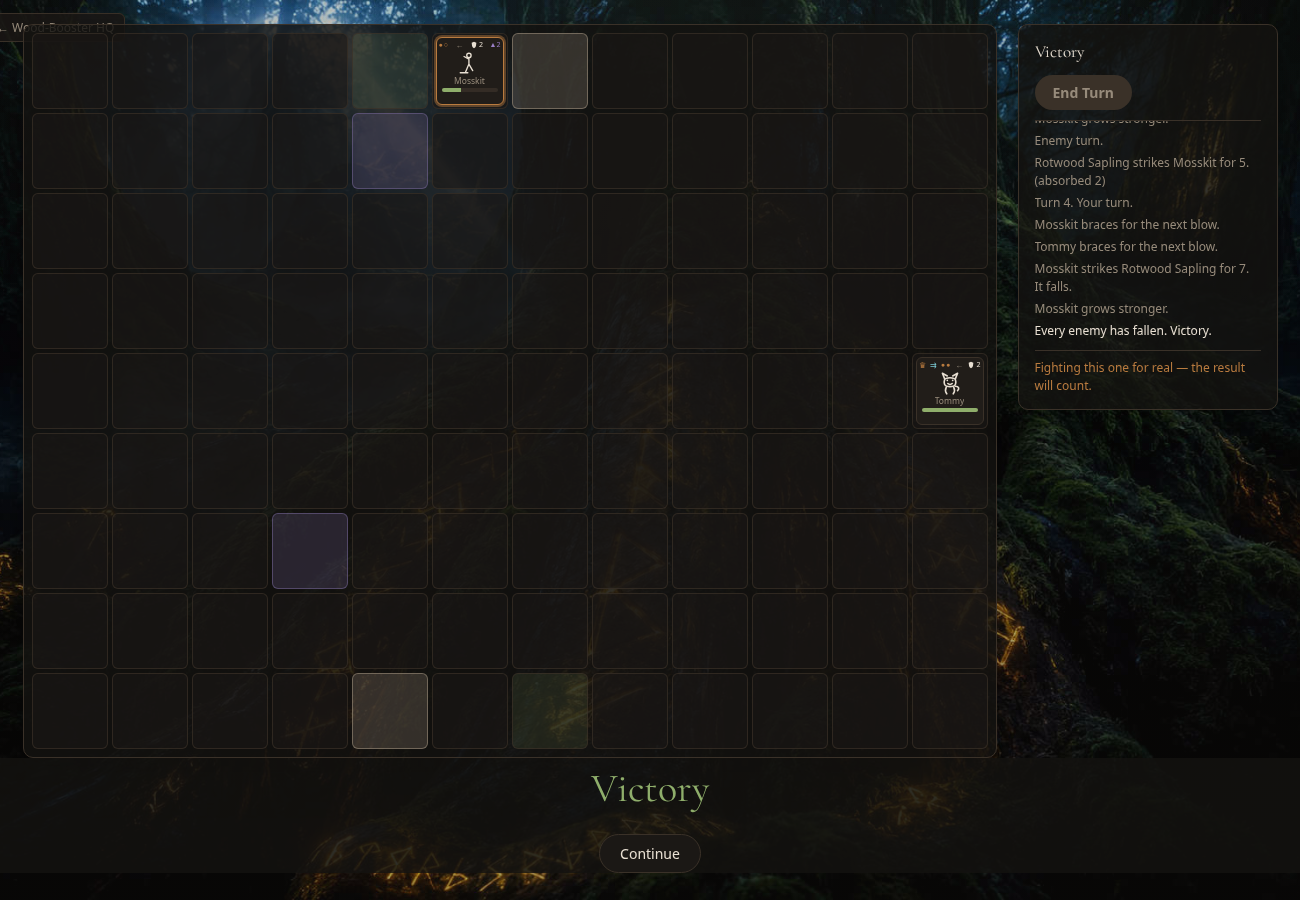
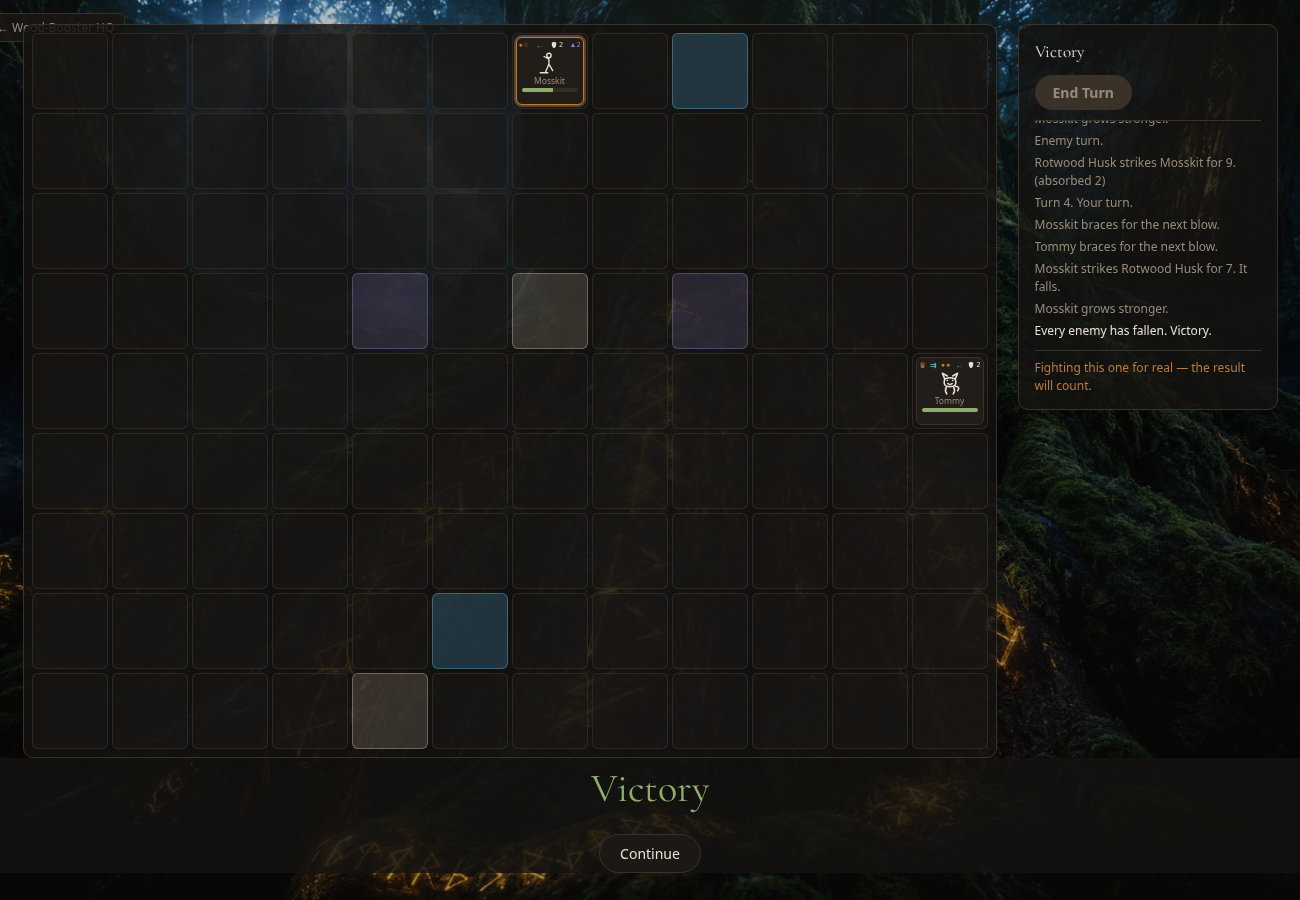
Add difficulty-scaled terrain density to real seeded fights
generateRealTerrain (tacticsRealMatchup.js) scaled a flat 6 hazard/
terrain cells every real fight regardless of run progress. It now
scales with the real Act number (actIndexForNode, runEngine.js - the
same 1-7 signal the story/RunMap UI already use), not the
auto-battler's own separately-tuned enemy HP/damage ramp: Act I stays
at exactly 6 (today's unchanged value), +1 hazard per Act up to 12 at
Act VII.

Only the hazard count scales - the existing weighted type mix (rock/
water/poison/forest) is untouched. No tacticsEngine.js or UI change
needed - the existing terrain rendering already scales to however many
cells the map contains.

diff --git a/src/services/heartwood/tacticsRealMatchup.js b/src/services/heartwood/tacticsRealMatchup.js
@@ -17,7 +17,7 @@
 // one call. This module never imports saveRunSave or anything else that
 // could write - there is no path from here back into the real run.
 import { loadRunSave } from "./runSaveState"
-import { deserializeRun } from "./runEngine"
+import { deserializeRun, RUN_PATH, actIndexForNode } from "./runEngine"
 import { resolveFormation } from "../../data/heartwood/formations"
 import { ENEMIES } from "../../data/heartwood/enemies"
 import { UNITS } from "../../data/heartwood/units"
@@ -35,13 +35,29 @@ const PREVIEWABLE_PHASES = new Set(["formation", "battle"])
 // rock/water/poison are the real hazards ("hazardit"); forest is a
 // zero-cost cosmetic variant ("ja muut" - Marc's own "and other
 // things") so a fight can look different even when nothing dangerous
-// lands nearby.
-const TERRAIN_HAZARD_COUNT = 6
+// lands nearby. Difficulty-scaled terrain density round: this is now
+// just the STARTING point (Act I keeps exactly this value) - see
+// terrainHazardCountForNode below for the real per-Act scaling.
+const TERRAIN_HAZARD_COUNT_BASE = 6
 function pickTerrainType(roll) {
   if (roll < 0.3) return "rock"
   if (roll < 0.5) return "water"
   if (roll < 0.75) return "poison"
   return "forest"
+}
+
+// Difficulty-scaled terrain density round: reuses actIndexForNode
+// (runEngine.js) - the SAME 1-7 Act number the story/RunMap/SquadDraft/
+// FormationScreen UI already all agree on - rather than
+// difficultyFactorForNode (the auto-battler's own heavily-tuned enemy
+// HP/damage ramp, re-tuned many times for THAT system's own balance
+// needs alone). +1 hazard per Act beyond the first: Act I=6 (today's
+// exact, unchanged value), Act II=7, ... Act VII=12. Exported so
+// verify checks can independently recompute the exact expected count
+// for any node, the same "recompute, don't just trust the render"
+// pattern every zone-cell check already uses.
+export function terrainHazardCountForNode(nodeIndex) {
+  return TERRAIN_HAZARD_COUNT_BASE + (actIndexForNode(nodeIndex, RUN_PATH.length) - 1)
 }
 
 // Seed System PRD (seed.js's own SEED_STREAMS): "combat" was reserved
@@ -64,7 +80,8 @@ export function generateRealTerrain(seed, nodeIndex) {
   const terrain = {}
   let placed = 0
   let attempts = 0
-  while (placed < TERRAIN_HAZARD_COUNT && attempts < TERRAIN_HAZARD_COUNT * 4) {
+  const hazardCount = terrainHazardCountForNode(nodeIndex)
+  while (placed < hazardCount && attempts < hazardCount * 4) {
     attempts++
     const row = Math.floor(rng() * GRID.rows)
     const col = 3 + Math.floor(rng() * (GRID.cols - 6))
